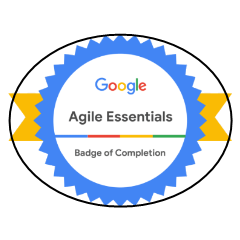
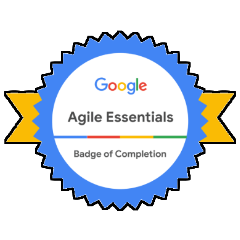
feat: adiciona certificado completo do AZ-900 e LGPD, ajusta contorno da badge do Google por silhueta e atualiza links de validacao online

diff --git a/src/data/studies.js b/src/data/studies.js
@@ -46,7 +46,7 @@ export const certificates = [
     status: 'concluido',
     verifyUrl: 'https://learn.microsoft.com/pt-br/users/allisonrodrigues-0529/credentials/499f3d74f3dec7e8',
     image: '/badge-az900.png',
-    certificateImage: null,
+    certificateImage: '/cert-az900.png',
     category: 'main',
   },
   {
@@ -66,7 +66,7 @@ export const certificates = [
     issuer: 'Cisco',
     year: 2025,
     status: 'concluido',
-    verifyUrl: null,
+    verifyUrl: 'https://www.credly.com/badges/f1e471c9-9ceb-4603-a8da-3f2ee6a8752a/linked_in_profile',
     image: '/badge-cybersecurity-cisco.png',
     certificateImage: '/cert-cybersecurity-cisco.png',
     category: 'main',
@@ -77,7 +77,7 @@ export const certificates = [
     issuer: 'Coursera / Google',
     year: 2025,
     status: 'concluido',
-    verifyUrl: null,
+    verifyUrl: 'https://www.coursera.org/account/accomplishments/specialization/CMMF00CY88FE',
     image: '/badge-scrum-google.png',
     certificateImage: '/cert-scrum-google.png',
     category: 'main',
@@ -88,7 +88,7 @@ export const certificates = [
     issuer: 'MongoDB',
     year: 2025,
     status: 'concluido',
-    verifyUrl: null,
+    verifyUrl: 'https://learn.mongodb.com/c/SBm_rjj0RiC1M9H8pd11Tw',
     image: '/badge-mongodb.png',
     certificateImage: null,
     category: 'main',
@@ -101,7 +101,7 @@ export const certificates = [
     status: 'concluido',
     verifyUrl: null,
     image: '/badge-lgpd.png',
-    certificateImage: null,
+    certificateImage: '/cert-lgpd.png',
     category: 'main',
   },
   {
